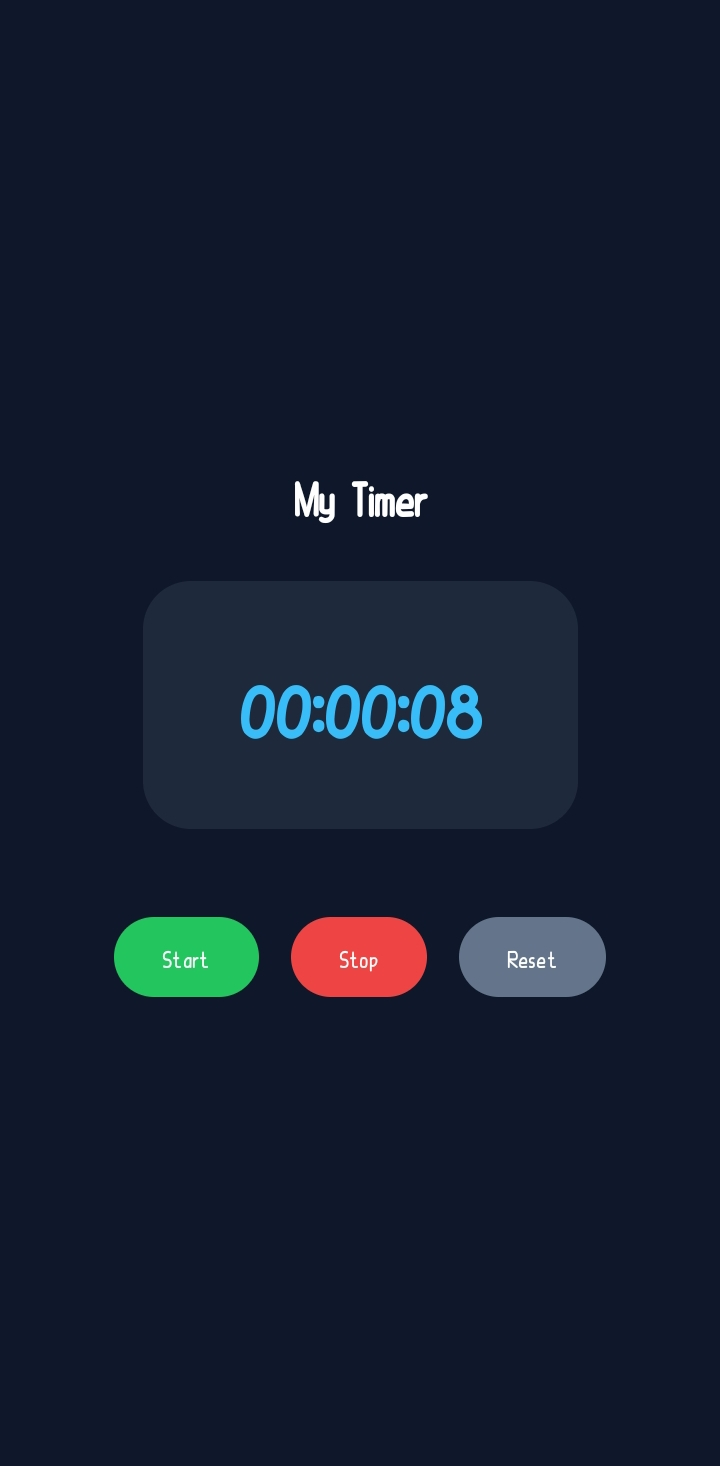
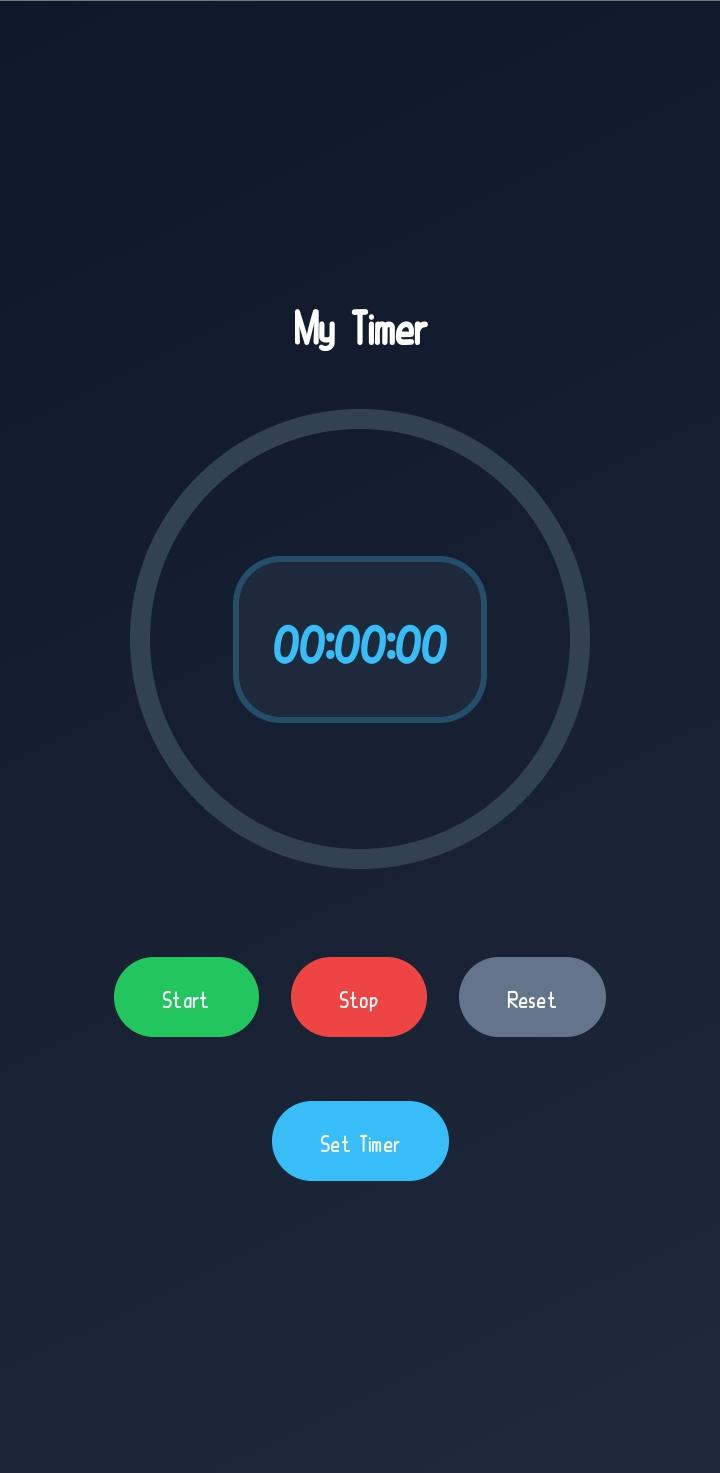
Update README and final app screenshot

diff --git a/README.md b/README.md
@@ -1,11 +1,42 @@
 # Timer App
 
-A simple Android timer app built with Kotlin and Jetpack Compose. Supports start, stop, and reset, and keeps counting correctly even when the screen rotates.
+A simple and user-friendly Android Timer App built with **Kotlin** and **Jetpack Compose**.
 
-## Screenshot
+The app was developed from a basic timer into a more feature-rich timer and stopwatch application.
+
+## Final App
 
 ![Timer App Screenshot](screenshot.png)
 
+## Features
+
+- Start, Stop, and Reset timer
+- Timer state preserved during screen rotation
+- Pulsing glow animation
+- Circular progress ring
+- Minute milestone message with beep
+- Stopwatch and Set Timer navigation
+- Countdown timer with hours, minutes, and seconds picker
+- Countdown completion alert
+- Quick 1, 5, and 10-minute presets
+
+## Development Screenshots
+
+The `screenshots` folder contains screenshots showing the different stages and features added during development.
+
 ## Project Structure
 
-This app has two main files. `TimerViewModel.kt` holds all the timer logic and state (elapsed seconds, running status) — using a ViewModel here means the state survives configuration changes like screen rotation, since Android keeps the ViewModel instance alive even when the Activity is destroyed and recreated. `MainActivity.kt` contains the Compose UI: a `TimerScreen` composable that displays the formatted time, a heading, and three buttons (Start/Stop/Reset) wired to functions on the ViewModel. The UI observes the ViewModel's state directly using Compose's `mutableStateOf`, so the screen automatically recomposes whenever the timer updates.
+- `MainActivity.kt` — Compose UI and app screens
+- `TimerViewModel.kt` — Timer logic and state management
+- `screenshots/` — Development screenshots
+
+## Technologies
+
+- **Kotlin**
+- **Jetpack Compose**
+- **Android Studio**
+- **ViewModel**
+
+## Project
+
+Developed as part of my **Mobile Application Development** coursework.
